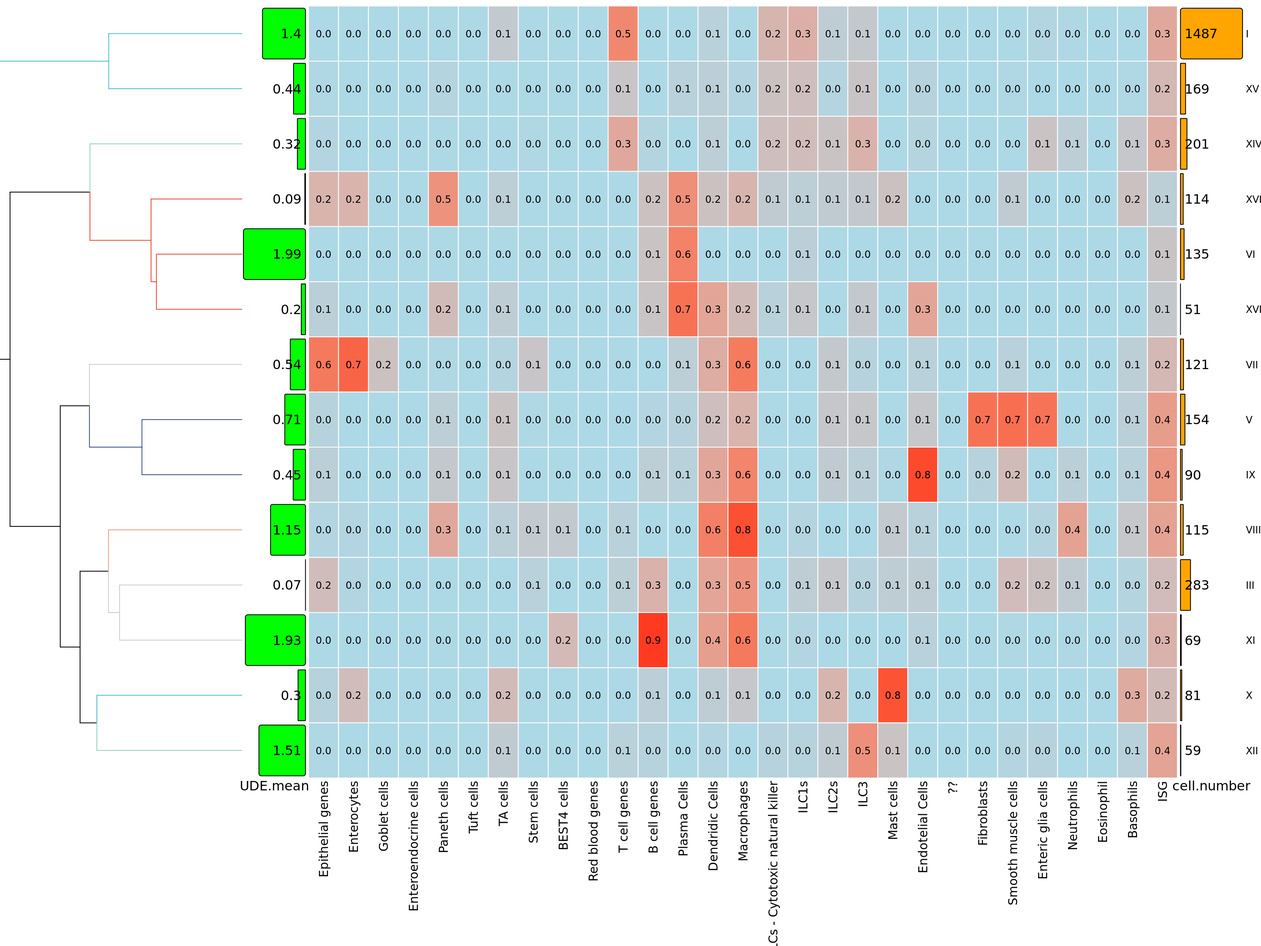
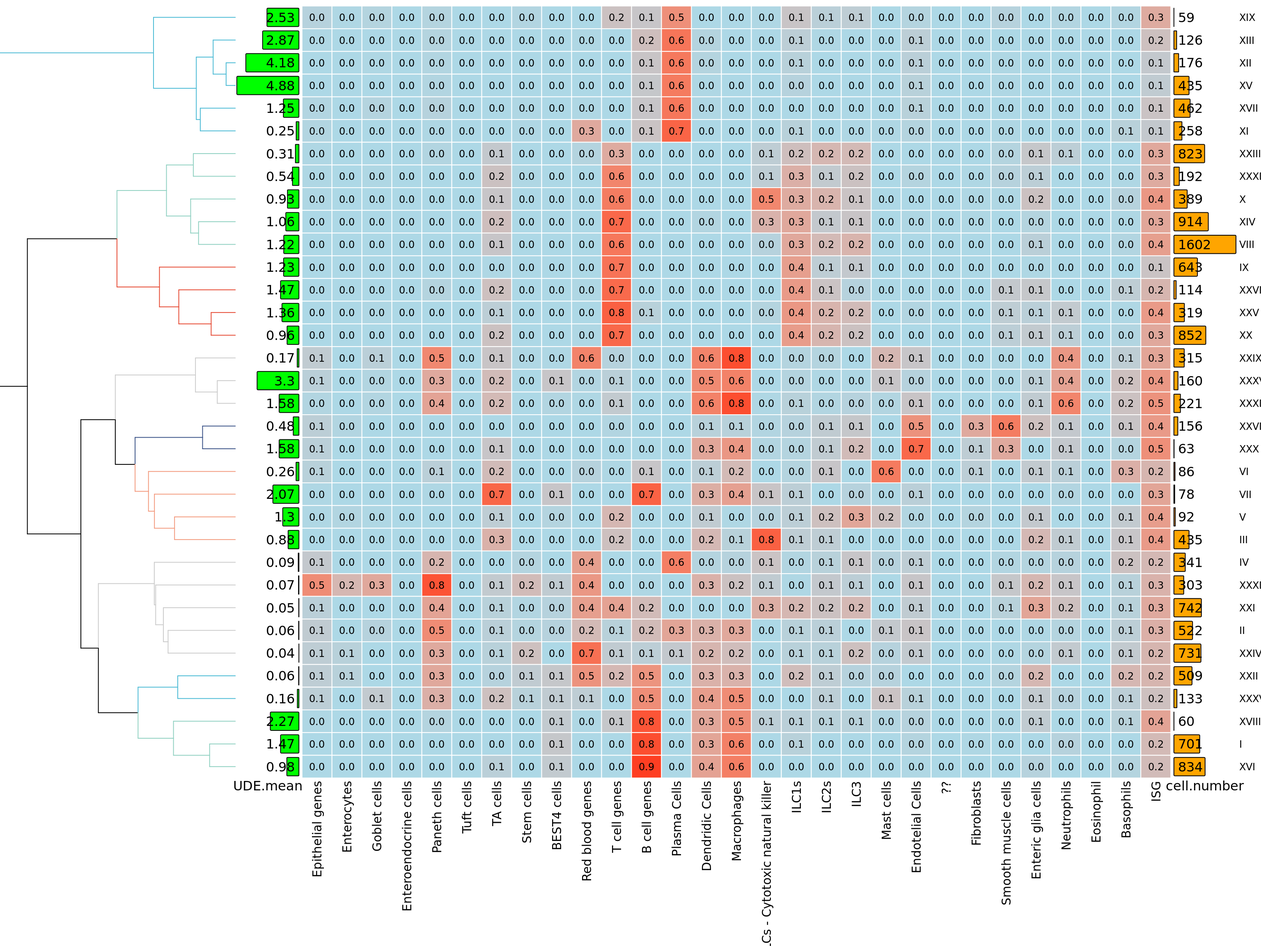
Built site for gh-pages

diff --git a/Crohn_disease/results/05_HeatmapSummary_NB.html b/Crohn_disease/results/05_HeatmapSummary_NB.html
@@ -300,7 +300,10 @@ code span.wa { color: #60a0b0; font-weight: bold; font-style: italic; } /* Warni
     <h2 id="toc-title">On this page</h2>
    
   <ul>
-  <li><a href="#instruction-how-to-read-the-plots" id="toc-instruction-how-to-read-the-plots" class="nav-link active" data-scroll-target="#instruction-how-to-read-the-plots">Instruction: how to read the plots</a></li>
+  <li><a href="#instructions-how-to-read-the-plots" id="toc-instructions-how-to-read-the-plots" class="nav-link active" data-scroll-target="#instructions-how-to-read-the-plots">Instructions: how to read the plots</a>
+  <ul class="collapse">
+  <li><a href="#summary-conclusions" id="toc-summary-conclusions" class="nav-link" data-scroll-target="#summary-conclusions">Summary conclusions</a></li>
+  </ul></li>
   <li><a href="#summary-by-patient" id="toc-summary-by-patient" class="nav-link" data-scroll-target="#summary-by-patient">Summary by Patient</a>
   <ul class="collapse">
   <li><a href="#patient-5" id="toc-patient-5" class="nav-link" data-scroll-target="#patient-5">Patient 5</a></li>
@@ -309,6 +312,7 @@ code span.wa { color: #60a0b0; font-weight: bold; font-style: italic; } /* Warni
   <li><a href="#patient-10" id="toc-patient-10" class="nav-link" data-scroll-target="#patient-10">Patient 10</a></li>
   <li><a href="#patient-11" id="toc-patient-11" class="nav-link" data-scroll-target="#patient-11">Patient 11</a></li>
   <li><a href="#patient-12" id="toc-patient-12" class="nav-link" data-scroll-target="#patient-12">Patient 12</a></li>
+  <li><a href="#patient-14" id="toc-patient-14" class="nav-link" data-scroll-target="#patient-14">Patient 14</a></li>
   </ul></li>
   <li><a href="#summary-by-sample-type" id="toc-summary-by-sample-type" class="nav-link" data-scroll-target="#summary-by-sample-type">Summary by Sample Type</a>
   <ul class="collapse">
@@ -342,13 +346,24 @@ code span.wa { color: #60a0b0; font-weight: bold; font-style: italic; } /* Warni
 <div class="sourceCode cell-code" id="cb1"><pre class="sourceCode r code-with-copy"><code class="sourceCode r"><span id="cb1-1"><a href="#cb1-1" aria-hidden="true" tabindex="-1"></a>today <span class="ot">&lt;-</span> <span class="fu">Sys.Date</span>()</span>
 <span id="cb1-2"><a href="#cb1-2" aria-hidden="true" tabindex="-1"></a><span class="fu">format</span>(today, <span class="at">format =</span> <span class="st">"%A %d %B %Y"</span>)</span></code><button title="Copy to Clipboard" class="code-copy-button"><i class="bi"></i></button></pre></div>
 <div class="cell-output cell-output-stdout">
-<pre><code>[1] "Friday 23 December 2022"</code></pre>
+<pre><code>[1] "Friday 30 December 2022"</code></pre>
 </div>
 </div>
-<section id="instruction-how-to-read-the-plots" class="level2">
-<h2 class="anchored" data-anchor-id="instruction-how-to-read-the-plots">Instruction: how to read the plots</h2>
-<p>The following plots are the same present in the end of each analysis, reported here to have a better overview.</p>
-<p>Each plot is composed of a heatmap with an enrichement score (from 0 to 1) for each marker gene set in each cell cluster. The cell cluster number is indicated for each row with roman number in the rightmost column. For the marker score, if a gene is considered a marker for more than one group, the score is proportionally reduced. The last column of the heatmap contains the score for the ISG set of genes. On the left there is a dendrogram evaluated using a distance (cosine) over all COTAN uniform clusters and considering, to estimate the distance, the whole transcriptome. The green bar plot between the dendrogram and the heatmap shows the UMI detection efficiency (UDE) mean. This score is the RNA extraction efficiency mean for the cell cluster. This can be usefull because if we observe a very low UDE and no clear marker group enrichment or there is an enrichment for more than one marker set (and very different), is it possible that the cluster is formed by just background signal. The right orange bar plot shows the cluster cell number.</p>
+<section id="instructions-how-to-read-the-plots" class="level2">
+<h2 class="anchored" data-anchor-id="instructions-how-to-read-the-plots">Instructions: how to read the plots</h2>
+<p>The following plots are the same present in the end of each analysis, reported here to have a better overview. We first show plots grouped by patient, then grouped by tissue type.</p>
+<p>Each plot is composed of a heatmap with an enrichement score (from 0 to 1) for each marker gene set in each cell cluster. Each row corresponds to a cell cluster, and each column corresponds to a set of markers. The first columns correspond to markers of different cell types, while the last column contains the score for the ISG set of genes.</p>
+<p>The cell cluster number is indicated for each row with roman number in the rightmost column. For the cell marker score, if a gene is considered a marker for more than one group, the score is proportionally reduced.</p>
+<p>On the left there is a dendrogram evaluated using a distance (cosine) over all COTAN uniform clusters and considering, to estimate the distance, the whole transcriptome.</p>
+<p>The green bar plot between the dendrogram and the heatmap shows the UMI detection efficiency (UDE) mean. This score is the RNA extraction efficiency mean for the cell cluster. This can be usefull because if we observe a very low UDE and no clear marker group enrichment or there is an enrichment for more than one marker set (and very different), is it possible that the cluster is formed by just background signal. The right orange bar plot shows the cluster cell number.</p>
+<section id="summary-conclusions" class="level3">
+<h3 class="anchored" data-anchor-id="summary-conclusions">Summary conclusions</h3>
+<p>Generally in the univolved samples the ISG set seems to be enriched always in a Endothelial, Fibroblast or Smooth muscle cell group or in another Dendridic, Macrophage cell group.</p>
+<p>In the involved samples with the previous groups enriched in ISG genes, we can also observe and involvement in the T cells/ILC. Only in patient 10, in which we observe some epithelial cells left, we see also here an ISG enrichment.</p>
+<p>In the PBMC samples the ISG groups seems less expressed with again the involvement of macrophages/dendritic cells but also, in some cases the cytotoxic natural killer.</p>
+<p>We do not observe large differences between patients in the ISG gene enrichment, the trends are stable from one patient to another.</p>
+<p>In general the ISG enrichment values are low. It could be useful to divide the 332 genes into subsets and check enrichment there. That could show more differences between cell types and also between patients.</p>
+</section>
 </section>
 <section id="summary-by-patient" class="level1">
 <h1>Summary by Patient</h1>
@@ -613,128 +628,182 @@ Attaching package: 'dendextend'</code></pre>
 </div>
 </div>
 </section>
+<section id="patient-14" class="level2">
+<h2 class="anchored" data-anchor-id="patient-14">Patient 14</h2>
+<div class="cell">
+
+</div>
+<div class="cell">
+<div class="sourceCode cell-code" id="cb25"><pre class="sourceCode r code-with-copy"><code class="sourceCode r"><span id="cb25-1"><a href="#cb25-1" aria-hidden="true" tabindex="-1"></a>involved14</span></code><button title="Copy to Clipboard" class="code-copy-button"><i class="bi"></i></button></pre></div>
+<div class="cell-output-display">
+<div class="quarto-figure quarto-figure-center">
+<figure class="figure">
+<p><img src="05_HeatmapSummary_NB_files/figure-html/unnamed-chunk-27-1.png" class="img-fluid figure-img" width="1536"></p>
+<p></p><figcaption class="figure-caption">Involved sample for patient 14</figcaption><p></p>
+</figure>
+</div>
+</div>
+</div>
+<div class="cell">
+<div class="sourceCode cell-code" id="cb26"><pre class="sourceCode r code-with-copy"><code class="sourceCode r"><span id="cb26-1"><a href="#cb26-1" aria-hidden="true" tabindex="-1"></a>uninvolved14</span></code><button title="Copy to Clipboard" class="code-copy-button"><i class="bi"></i></button></pre></div>
+<div class="cell-output-display">
+<div class="quarto-figure quarto-figure-center">
+<figure class="figure">
+<p><img src="05_HeatmapSummary_NB_files/figure-html/unnamed-chunk-28-1.png" class="img-fluid figure-img" width="1536"></p>
+<p></p><figcaption class="figure-caption">Uninvolved sample for patient 14</figcaption><p></p>
+</figure>
+</div>
+</div>
+</div>
+<div class="cell">
+<div class="sourceCode cell-code" id="cb27"><pre class="sourceCode r code-with-copy"><code class="sourceCode r"><span id="cb27-1"><a href="#cb27-1" aria-hidden="true" tabindex="-1"></a>PBMC14</span></code><button title="Copy to Clipboard" class="code-copy-button"><i class="bi"></i></button></pre></div>
+<div class="cell-output-display">
+<div class="quarto-figure quarto-figure-center">
+<figure class="figure">
+<p><img src="05_HeatmapSummary_NB_files/figure-html/unnamed-chunk-29-1.png" class="img-fluid figure-img" width="1536"></p>
+<p></p><figcaption class="figure-caption">PBMC sample for patient 14</figcaption><p></p>
+</figure>
+</div>
+</div>
+</div>
+</section>
 </section>
 <section id="summary-by-sample-type" class="level1">
 <h1>Summary by Sample Type</h1>
 <section id="univolved" class="level2">
 <h2 class="anchored" data-anchor-id="univolved">Univolved</h2>
 <div class="cell">
-<div class="sourceCode cell-code" id="cb25"><pre class="sourceCode r code-with-copy"><code class="sourceCode r"><span id="cb25-1"><a href="#cb25-1" aria-hidden="true" tabindex="-1"></a>uninvolved5</span></code><button title="Copy to Clipboard" class="code-copy-button"><i class="bi"></i></button></pre></div>
-<div class="cell-output-display">
-<p><img src="05_HeatmapSummary_NB_files/figure-html/unnamed-chunk-26-1.png" class="img-fluid" width="1536"></p>
-</div>
-</div>
-<div class="cell">
-<div class="sourceCode cell-code" id="cb26"><pre class="sourceCode r code-with-copy"><code class="sourceCode r"><span id="cb26-1"><a href="#cb26-1" aria-hidden="true" tabindex="-1"></a>uninvolved7</span></code><button title="Copy to Clipboard" class="code-copy-button"><i class="bi"></i></button></pre></div>
-<div class="cell-output-display">
-<p><img src="05_HeatmapSummary_NB_files/figure-html/unnamed-chunk-27-1.png" class="img-fluid" width="1536"></p>
-</div>
-</div>
-<div class="cell">
-<div class="sourceCode cell-code" id="cb27"><pre class="sourceCode r code-with-copy"><code class="sourceCode r"><span id="cb27-1"><a href="#cb27-1" aria-hidden="true" tabindex="-1"></a>uninvolved8</span></code><button title="Copy to Clipboard" class="code-copy-button"><i class="bi"></i></button></pre></div>
-<div class="cell-output-display">
-<p><img src="05_HeatmapSummary_NB_files/figure-html/unnamed-chunk-28-1.png" class="img-fluid" width="1536"></p>
-</div>
-</div>
-<div class="cell">
-<div class="sourceCode cell-code" id="cb28"><pre class="sourceCode r code-with-copy"><code class="sourceCode r"><span id="cb28-1"><a href="#cb28-1" aria-hidden="true" tabindex="-1"></a>uninvolved10</span></code><button title="Copy to Clipboard" class="code-copy-button"><i class="bi"></i></button></pre></div>
-<div class="cell-output-display">
-<p><img src="05_HeatmapSummary_NB_files/figure-html/unnamed-chunk-29-1.png" class="img-fluid" width="1536"></p>
-</div>
-</div>
-<div class="cell">
-<div class="sourceCode cell-code" id="cb29"><pre class="sourceCode r code-with-copy"><code class="sourceCode r"><span id="cb29-1"><a href="#cb29-1" aria-hidden="true" tabindex="-1"></a>uninvolved11</span></code><button title="Copy to Clipboard" class="code-copy-button"><i class="bi"></i></button></pre></div>
+<div class="sourceCode cell-code" id="cb28"><pre class="sourceCode r code-with-copy"><code class="sourceCode r"><span id="cb28-1"><a href="#cb28-1" aria-hidden="true" tabindex="-1"></a>uninvolved5</span></code><button title="Copy to Clipboard" class="code-copy-button"><i class="bi"></i></button></pre></div>
 <div class="cell-output-display">
 <p><img src="05_HeatmapSummary_NB_files/figure-html/unnamed-chunk-30-1.png" class="img-fluid" width="1536"></p>
 </div>
 </div>
 <div class="cell">
-<div class="sourceCode cell-code" id="cb30"><pre class="sourceCode r code-with-copy"><code class="sourceCode r"><span id="cb30-1"><a href="#cb30-1" aria-hidden="true" tabindex="-1"></a>uninvolved12</span></code><button title="Copy to Clipboard" class="code-copy-button"><i class="bi"></i></button></pre></div>
+<div class="sourceCode cell-code" id="cb29"><pre class="sourceCode r code-with-copy"><code class="sourceCode r"><span id="cb29-1"><a href="#cb29-1" aria-hidden="true" tabindex="-1"></a>uninvolved7</span></code><button title="Copy to Clipboard" class="code-copy-button"><i class="bi"></i></button></pre></div>
 <div class="cell-output-display">
 <p><img src="05_HeatmapSummary_NB_files/figure-html/unnamed-chunk-31-1.png" class="img-fluid" width="1536"></p>
 </div>
 </div>
-<p>Generally in the univolved samples the ISG set seems to be enriched always in a Endothelial, Fibroblast or Smooth muscle cell group or in another Dendridic, Macrophage cell group.</p>
-</section>
-<section id="involved" class="level2">
-<h2 class="anchored" data-anchor-id="involved">Involved</h2>
 <div class="cell">
-<div class="sourceCode cell-code" id="cb31"><pre class="sourceCode r code-with-copy"><code class="sourceCode r"><span id="cb31-1"><a href="#cb31-1" aria-hidden="true" tabindex="-1"></a>involved5</span></code><button title="Copy to Clipboard" class="code-copy-button"><i class="bi"></i></button></pre></div>
+<div class="sourceCode cell-code" id="cb30"><pre class="sourceCode r code-with-copy"><code class="sourceCode r"><span id="cb30-1"><a href="#cb30-1" aria-hidden="true" tabindex="-1"></a>uninvolved8</span></code><button title="Copy to Clipboard" class="code-copy-button"><i class="bi"></i></button></pre></div>
 <div class="cell-output-display">
 <p><img src="05_HeatmapSummary_NB_files/figure-html/unnamed-chunk-32-1.png" class="img-fluid" width="1536"></p>
 </div>
 </div>
 <div class="cell">
-<div class="sourceCode cell-code" id="cb32"><pre class="sourceCode r code-with-copy"><code class="sourceCode r"><span id="cb32-1"><a href="#cb32-1" aria-hidden="true" tabindex="-1"></a>involved7</span></code><button title="Copy to Clipboard" class="code-copy-button"><i class="bi"></i></button></pre></div>
+<div class="sourceCode cell-code" id="cb31"><pre class="sourceCode r code-with-copy"><code class="sourceCode r"><span id="cb31-1"><a href="#cb31-1" aria-hidden="true" tabindex="-1"></a>uninvolved10</span></code><button title="Copy to Clipboard" class="code-copy-button"><i class="bi"></i></button></pre></div>
 <div class="cell-output-display">
 <p><img src="05_HeatmapSummary_NB_files/figure-html/unnamed-chunk-33-1.png" class="img-fluid" width="1536"></p>
 </div>
 </div>
 <div class="cell">
-<div class="sourceCode cell-code" id="cb33"><pre class="sourceCode r code-with-copy"><code class="sourceCode r"><span id="cb33-1"><a href="#cb33-1" aria-hidden="true" tabindex="-1"></a>involved8</span></code><button title="Copy to Clipboard" class="code-copy-button"><i class="bi"></i></button></pre></div>
+<div class="sourceCode cell-code" id="cb32"><pre class="sourceCode r code-with-copy"><code class="sourceCode r"><span id="cb32-1"><a href="#cb32-1" aria-hidden="true" tabindex="-1"></a>uninvolved11</span></code><button title="Copy to Clipboard" class="code-copy-button"><i class="bi"></i></button></pre></div>
 <div class="cell-output-display">
 <p><img src="05_HeatmapSummary_NB_files/figure-html/unnamed-chunk-34-1.png" class="img-fluid" width="1536"></p>
 </div>
 </div>
 <div class="cell">
-<div class="sourceCode cell-code" id="cb34"><pre class="sourceCode r code-with-copy"><code class="sourceCode r"><span id="cb34-1"><a href="#cb34-1" aria-hidden="true" tabindex="-1"></a>involved10</span></code><button title="Copy to Clipboard" class="code-copy-button"><i class="bi"></i></button></pre></div>
+<div class="sourceCode cell-code" id="cb33"><pre class="sourceCode r code-with-copy"><code class="sourceCode r"><span id="cb33-1"><a href="#cb33-1" aria-hidden="true" tabindex="-1"></a>uninvolved12</span></code><button title="Copy to Clipboard" class="code-copy-button"><i class="bi"></i></button></pre></div>
 <div class="cell-output-display">
 <p><img src="05_HeatmapSummary_NB_files/figure-html/unnamed-chunk-35-1.png" class="img-fluid" width="1536"></p>
 </div>
 </div>
 <div class="cell">
-<div class="sourceCode cell-code" id="cb35"><pre class="sourceCode r code-with-copy"><code class="sourceCode r"><span id="cb35-1"><a href="#cb35-1" aria-hidden="true" tabindex="-1"></a>involved11</span></code><button title="Copy to Clipboard" class="code-copy-button"><i class="bi"></i></button></pre></div>
+<div class="sourceCode cell-code" id="cb34"><pre class="sourceCode r code-with-copy"><code class="sourceCode r"><span id="cb34-1"><a href="#cb34-1" aria-hidden="true" tabindex="-1"></a>uninvolved14</span></code><button title="Copy to Clipboard" class="code-copy-button"><i class="bi"></i></button></pre></div>
 <div class="cell-output-display">
 <p><img src="05_HeatmapSummary_NB_files/figure-html/unnamed-chunk-36-1.png" class="img-fluid" width="1536"></p>
 </div>
 </div>
+</section>
+<section id="involved" class="level2">
+<h2 class="anchored" data-anchor-id="involved">Involved</h2>
 <div class="cell">
-<div class="sourceCode cell-code" id="cb36"><pre class="sourceCode r code-with-copy"><code class="sourceCode r"><span id="cb36-1"><a href="#cb36-1" aria-hidden="true" tabindex="-1"></a>involved12</span></code><button title="Copy to Clipboard" class="code-copy-button"><i class="bi"></i></button></pre></div>
+<div class="sourceCode cell-code" id="cb35"><pre class="sourceCode r code-with-copy"><code class="sourceCode r"><span id="cb35-1"><a href="#cb35-1" aria-hidden="true" tabindex="-1"></a>involved5</span></code><button title="Copy to Clipboard" class="code-copy-button"><i class="bi"></i></button></pre></div>
 <div class="cell-output-display">
 <p><img src="05_HeatmapSummary_NB_files/figure-html/unnamed-chunk-37-1.png" class="img-fluid" width="1536"></p>
 </div>
 </div>
-<p>In the involved samples with the previous groups enriched in ISG genes, we can also observe and involvement in the T cells/ILC. Only in patient 10, in which we observe some epithelial cells left, we see also here an ISG enrichment.</p>
-</section>
-<section id="pbmc" class="level2">
-<h2 class="anchored" data-anchor-id="pbmc">PBMC</h2>
 <div class="cell">
-<div class="sourceCode cell-code" id="cb37"><pre class="sourceCode r code-with-copy"><code class="sourceCode r"><span id="cb37-1"><a href="#cb37-1" aria-hidden="true" tabindex="-1"></a>PBMC5</span></code><button title="Copy to Clipboard" class="code-copy-button"><i class="bi"></i></button></pre></div>
+<div class="sourceCode cell-code" id="cb36"><pre class="sourceCode r code-with-copy"><code class="sourceCode r"><span id="cb36-1"><a href="#cb36-1" aria-hidden="true" tabindex="-1"></a>involved7</span></code><button title="Copy to Clipboard" class="code-copy-button"><i class="bi"></i></button></pre></div>
 <div class="cell-output-display">
 <p><img src="05_HeatmapSummary_NB_files/figure-html/unnamed-chunk-38-1.png" class="img-fluid" width="1536"></p>
 </div>
 </div>
 <div class="cell">
-<div class="sourceCode cell-code" id="cb38"><pre class="sourceCode r code-with-copy"><code class="sourceCode r"><span id="cb38-1"><a href="#cb38-1" aria-hidden="true" tabindex="-1"></a>PBMC7</span></code><button title="Copy to Clipboard" class="code-copy-button"><i class="bi"></i></button></pre></div>
+<div class="sourceCode cell-code" id="cb37"><pre class="sourceCode r code-with-copy"><code class="sourceCode r"><span id="cb37-1"><a href="#cb37-1" aria-hidden="true" tabindex="-1"></a>involved8</span></code><button title="Copy to Clipboard" class="code-copy-button"><i class="bi"></i></button></pre></div>
 <div class="cell-output-display">
 <p><img src="05_HeatmapSummary_NB_files/figure-html/unnamed-chunk-39-1.png" class="img-fluid" width="1536"></p>
 </div>
 </div>
 <div class="cell">
-<div class="sourceCode cell-code" id="cb39"><pre class="sourceCode r code-with-copy"><code class="sourceCode r"><span id="cb39-1"><a href="#cb39-1" aria-hidden="true" tabindex="-1"></a>PBMC8</span></code><button title="Copy to Clipboard" class="code-copy-button"><i class="bi"></i></button></pre></div>
+<div class="sourceCode cell-code" id="cb38"><pre class="sourceCode r code-with-copy"><code class="sourceCode r"><span id="cb38-1"><a href="#cb38-1" aria-hidden="true" tabindex="-1"></a>involved10</span></code><button title="Copy to Clipboard" class="code-copy-button"><i class="bi"></i></button></pre></div>
 <div class="cell-output-display">
 <p><img src="05_HeatmapSummary_NB_files/figure-html/unnamed-chunk-40-1.png" class="img-fluid" width="1536"></p>
 </div>
 </div>
 <div class="cell">
-<div class="sourceCode cell-code" id="cb40"><pre class="sourceCode r code-with-copy"><code class="sourceCode r"><span id="cb40-1"><a href="#cb40-1" aria-hidden="true" tabindex="-1"></a>PBMC10</span></code><button title="Copy to Clipboard" class="code-copy-button"><i class="bi"></i></button></pre></div>
+<div class="sourceCode cell-code" id="cb39"><pre class="sourceCode r code-with-copy"><code class="sourceCode r"><span id="cb39-1"><a href="#cb39-1" aria-hidden="true" tabindex="-1"></a>involved11</span></code><button title="Copy to Clipboard" class="code-copy-button"><i class="bi"></i></button></pre></div>
 <div class="cell-output-display">
 <p><img src="05_HeatmapSummary_NB_files/figure-html/unnamed-chunk-41-1.png" class="img-fluid" width="1536"></p>
 </div>
 </div>
 <div class="cell">
-<div class="sourceCode cell-code" id="cb41"><pre class="sourceCode r code-with-copy"><code class="sourceCode r"><span id="cb41-1"><a href="#cb41-1" aria-hidden="true" tabindex="-1"></a>PBMC11</span></code><button title="Copy to Clipboard" class="code-copy-button"><i class="bi"></i></button></pre></div>
+<div class="sourceCode cell-code" id="cb40"><pre class="sourceCode r code-with-copy"><code class="sourceCode r"><span id="cb40-1"><a href="#cb40-1" aria-hidden="true" tabindex="-1"></a>involved12</span></code><button title="Copy to Clipboard" class="code-copy-button"><i class="bi"></i></button></pre></div>
 <div class="cell-output-display">
 <p><img src="05_HeatmapSummary_NB_files/figure-html/unnamed-chunk-42-1.png" class="img-fluid" width="1536"></p>
 </div>
 </div>
 <div class="cell">
-<div class="sourceCode cell-code" id="cb42"><pre class="sourceCode r code-with-copy"><code class="sourceCode r"><span id="cb42-1"><a href="#cb42-1" aria-hidden="true" tabindex="-1"></a>PBMC12</span></code><button title="Copy to Clipboard" class="code-copy-button"><i class="bi"></i></button></pre></div>
+<div class="sourceCode cell-code" id="cb41"><pre class="sourceCode r code-with-copy"><code class="sourceCode r"><span id="cb41-1"><a href="#cb41-1" aria-hidden="true" tabindex="-1"></a>involved14</span></code><button title="Copy to Clipboard" class="code-copy-button"><i class="bi"></i></button></pre></div>
 <div class="cell-output-display">
 <p><img src="05_HeatmapSummary_NB_files/figure-html/unnamed-chunk-43-1.png" class="img-fluid" width="1536"></p>
 </div>
 </div>
-<p>In this type of samples the ISG groups seems less expressed with again the involvement of macrophages/dendritic cells but also, in some cases the cytotoxic natural killer</p>
+</section>
+<section id="pbmc" class="level2">
+<h2 class="anchored" data-anchor-id="pbmc">PBMC</h2>
+<div class="cell">
+<div class="sourceCode cell-code" id="cb42"><pre class="sourceCode r code-with-copy"><code class="sourceCode r"><span id="cb42-1"><a href="#cb42-1" aria-hidden="true" tabindex="-1"></a>PBMC5</span></code><button title="Copy to Clipboard" class="code-copy-button"><i class="bi"></i></button></pre></div>
+<div class="cell-output-display">
+<p><img src="05_HeatmapSummary_NB_files/figure-html/unnamed-chunk-44-1.png" class="img-fluid" width="1536"></p>
+</div>
+</div>
+<div class="cell">
+<div class="sourceCode cell-code" id="cb43"><pre class="sourceCode r code-with-copy"><code class="sourceCode r"><span id="cb43-1"><a href="#cb43-1" aria-hidden="true" tabindex="-1"></a>PBMC7</span></code><button title="Copy to Clipboard" class="code-copy-button"><i class="bi"></i></button></pre></div>
+<div class="cell-output-display">
+<p><img src="05_HeatmapSummary_NB_files/figure-html/unnamed-chunk-45-1.png" class="img-fluid" width="1536"></p>
+</div>
+</div>
+<div class="cell">
+<div class="sourceCode cell-code" id="cb44"><pre class="sourceCode r code-with-copy"><code class="sourceCode r"><span id="cb44-1"><a href="#cb44-1" aria-hidden="true" tabindex="-1"></a>PBMC8</span></code><button title="Copy to Clipboard" class="code-copy-button"><i class="bi"></i></button></pre></div>
+<div class="cell-output-display">
+<p><img src="05_HeatmapSummary_NB_files/figure-html/unnamed-chunk-46-1.png" class="img-fluid" width="1536"></p>
+</div>
+</div>
+<div class="cell">
+<div class="sourceCode cell-code" id="cb45"><pre class="sourceCode r code-with-copy"><code class="sourceCode r"><span id="cb45-1"><a href="#cb45-1" aria-hidden="true" tabindex="-1"></a>PBMC10</span></code><button title="Copy to Clipboard" class="code-copy-button"><i class="bi"></i></button></pre></div>
+<div class="cell-output-display">
+<p><img src="05_HeatmapSummary_NB_files/figure-html/unnamed-chunk-47-1.png" class="img-fluid" width="1536"></p>
+</div>
+</div>
+<div class="cell">
+<div class="sourceCode cell-code" id="cb46"><pre class="sourceCode r code-with-copy"><code class="sourceCode r"><span id="cb46-1"><a href="#cb46-1" aria-hidden="true" tabindex="-1"></a>PBMC11</span></code><button title="Copy to Clipboard" class="code-copy-button"><i class="bi"></i></button></pre></div>
+<div class="cell-output-display">
+<p><img src="05_HeatmapSummary_NB_files/figure-html/unnamed-chunk-48-1.png" class="img-fluid" width="1536"></p>
+</div>
+</div>
+<div class="cell">
+<div class="sourceCode cell-code" id="cb47"><pre class="sourceCode r code-with-copy"><code class="sourceCode r"><span id="cb47-1"><a href="#cb47-1" aria-hidden="true" tabindex="-1"></a>PBMC12</span></code><button title="Copy to Clipboard" class="code-copy-button"><i class="bi"></i></button></pre></div>
+<div class="cell-output-display">
+<p><img src="05_HeatmapSummary_NB_files/figure-html/unnamed-chunk-49-1.png" class="img-fluid" width="1536"></p>
+</div>
+</div>
+<div class="cell">
+<div class="sourceCode cell-code" id="cb48"><pre class="sourceCode r code-with-copy"><code class="sourceCode r"><span id="cb48-1"><a href="#cb48-1" aria-hidden="true" tabindex="-1"></a>PBMC14</span></code><button title="Copy to Clipboard" class="code-copy-button"><i class="bi"></i></button></pre></div>
+<div class="cell-output-display">
+<p><img src="05_HeatmapSummary_NB_files/figure-html/unnamed-chunk-50-1.png" class="img-fluid" width="1536"></p>
+</div>
+</div>
 
 
 </section>
